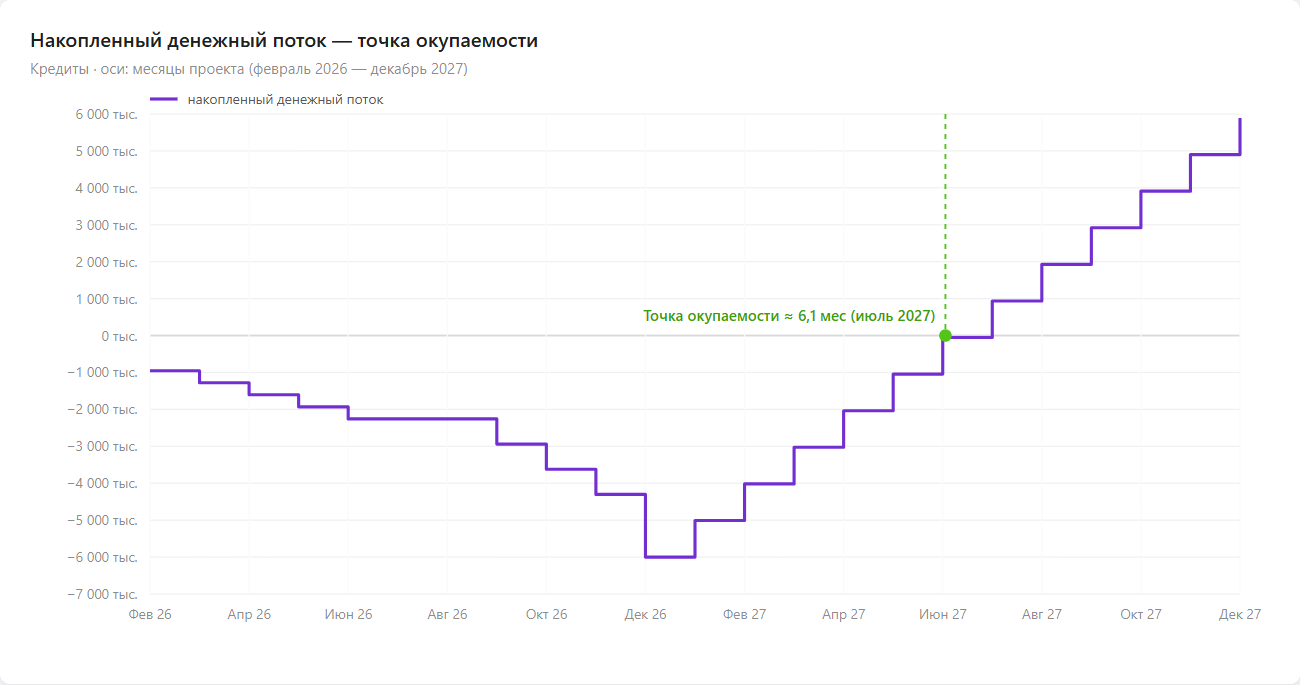
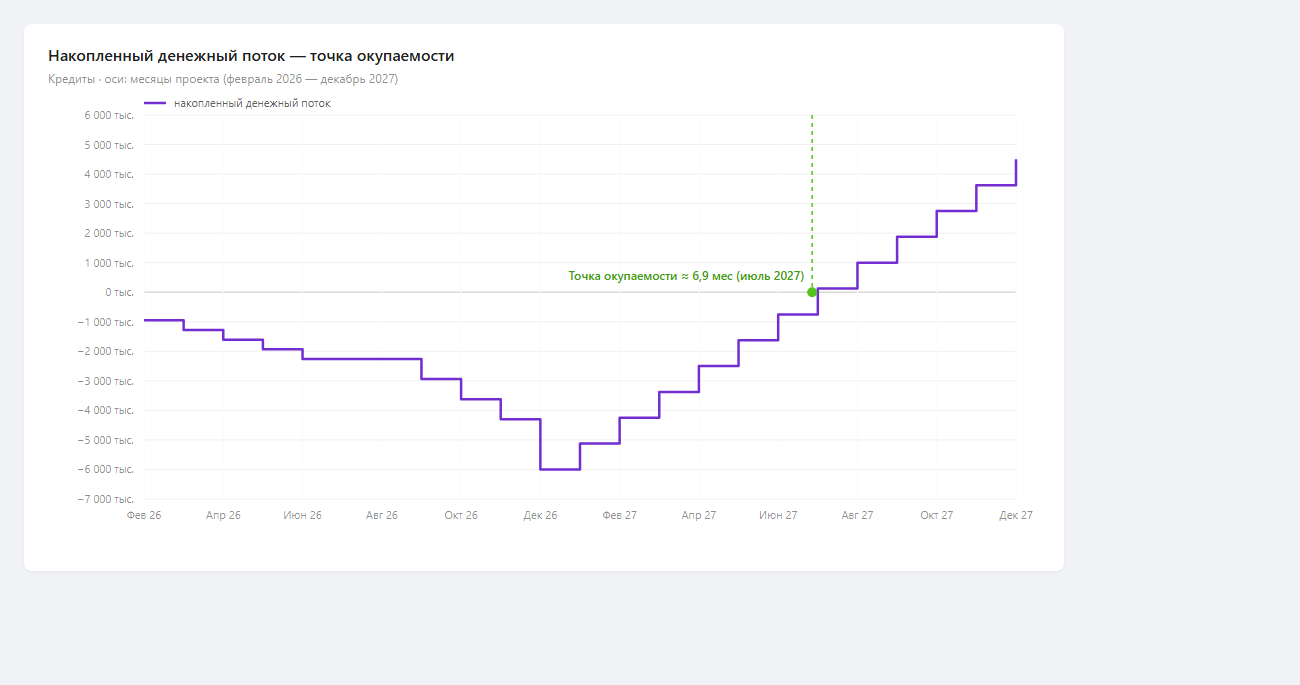
Синхронизация документов под облачную модель и пересчёт BusinessCase
- BusinessCase: приняты правки PR, пересчитана экономика (расходы с системой
  144 000/мес, экономия 874 992/мес, окупаемость 6,86 мес, ROI 425,0 %).
- Поддержка разделена на отдельные статьи: облачный сервер 5 000/мес и
  сопровождение командой 100 000/мес (0,5 FTE).
- Vision 4.4: бюджет разработки 6 000 000, инфраструктура 5 000/мес,
  поддержка 100 000/мес (итого 105 000).
- SRS/SAD/SDP: размещение на выделенном облачном VPS + VPN вместо локального
  контура клиники; helios.cs.ifmo.ru оставлен как среда разработки/тестирования.
- График окупаемости перегенерирован под новые числа (6,9 мес, июль 2027).

diff --git a/diagrams/finance-charts.html b/diagrams/finance-charts.html
@@ -31,7 +31,7 @@
   const MONTHS = ['Фев 26','Мар 26','Апр 26','Май 26','Июн 26','Июл 26','Авг 26','Сен 26','Окт 26','Ноя 26','Дек 26',
                   'Янв 27','Фев 27','Мар 27','Апр 27','Май 27','Июн 27','Июл 27','Авг 27','Сен 27','Окт 27','Ноя 27','Дек 27'];
   const CUM = [-952000,-1278500,-1605000,-1931500,-2258000,-2258000,-2258000,-2939500,-3621000,-4302500,-6000000,
-               -5009000,-4018000,-3027000,-2036000,-1045000,-54000,937000,1928000,2919000,3910000,4901000,5892000];
+               -5125008,-4250016,-3375024,-2500032,-1625040,-750048,124944,999936,1874928,2749920,3624912,4499904];
 
   const fmt = n => {
     const s = Math.abs(n).toLocaleString('ru-RU').replace(/\u00A0/g,' ');
@@ -72,13 +72,13 @@
     for (let i = 1; i < n; i++) d += ` L ${x(i)} ${y(CUM[i - 1])} L ${x(i)} ${y(CUM[i])}`;
     svg.appendChild(svgEl('path', { d, fill: 'none', stroke: '#722ed1', 'stroke-width': 2.5, 'stroke-linejoin': 'round' }));
 
-    const frac = 54000 / 991000;
+    const frac = 750048 / 874992;
     const bx = x(16) + (x(17) - x(16)) * frac;
     const by = y(0);
     svg.appendChild(svgEl('line', { x1: bx, x2: bx, y1: m.top, y2: by, stroke: '#52c41a', 'stroke-width': 1.5, 'stroke-dasharray': '4 4' }));
     svg.appendChild(svgEl('circle', { cx: bx, cy: by, r: 5, fill: '#52c41a' }));
     const lbl = svgEl('text', { x: bx - 8, y: by - 12, 'text-anchor': 'end', 'font-size': 12, 'font-weight': 600, fill: '#389e0d' });
-    lbl.textContent = 'Точка окупаемости ≈ 6,1 мес (июль 2027)';
+    lbl.textContent = 'Точка окупаемости ≈ 6,9 мес (июль 2027)';
     svg.appendChild(lbl);
 
     const lg = svgEl('g', {});

diff --git a/markdown-docs/Vision.md b/markdown-docs/Vision.md
@@ -297,7 +297,7 @@ a successful solution would be
 | 1C:Медицина | Готовая платформа, поддержка российского законодательства, обучение персонала | Не адаптирована под специфику переноса сознания, нет модулей работы со стеками, слабая безопасность | Специализированная архитектура под DHF, квантовое шифрование, протоколы needlecast |
 | WordPress + плагины | Низкая стоимость, быстрый запуск, гибкая кастомизация | Не предназначен для критических медицинских систем, уязвимости безопасности, отсутствие аудита действий | Встроенный неизменяемый audit log, ролевая модель доступа, соответствие стандартам Бей-Сити |
 | Самописные решения других клиник | Заточены под внутренние процессы | Отсутствие документации, зависимость от конкретных разработчиков, сложность масштабирования | Модульная архитектура, полная документация, поддержка внешних интеграций (архивы, регуляторы) |
-| Облачные медицинские платформы | Высокая доступность, автоматические обновления | Данные хранятся вне периметра клиники, риски утечек, зависимость от провайдера | Локальное развёртывание в защищённом контуре, полный контроль над данными, автономная работа |
+| Облачные медицинские платформы | Высокая доступность, автоматические обновления | Данные хранятся вне периметра клиники, риски утечек, зависимость от провайдера | Выделенный облачный сервер в изолированном защищённом сегменте, квантовое шифрование DHF, полный контроль над данными |
 
 ### 3.8.3 Отказ от смены тела
 
@@ -345,18 +345,17 @@ SCMS является программной системой (веб-прило
 - тестирование и ввод в эксплуатацию;
 - интеграцию с внешними API (генетические архивы, системы культивирования).
 
-Оценочный бюджет разработки: **500 000 кредитов** (единовременно).
-Соответствует разработке веб-приложения средней сложности с повышенными требованиями к безопасности командой из 3 разработчиков.
+Оценочный бюджет разработки: **6 000 000 кредитов** (единовременно, в соответствии с SDP §4.2.6 и BusinessCase §5).
+Соответствует разработке веб-приложения средней сложности с повышенными требованиями к безопасности командой из 2 участников в течение 10 месяцев.
 
-**2. Инфраструктура (ежемесячные расходы)**
+**2. Инфраструктура (облако, ежемесячные расходы)**
 
-Система распространяется как внутренний продукт для клиники — стоимость определяется затратами на инфраструктуру.
+Система разворачивается на выделенном облачном сервере (VPS) провайдера; интернет-трафик и резервное копирование входят в тариф.
 
 | Компонент | Конфигурация | Стоимость (кредитов/мес) |
 |-----------|-------------|------------------------|
-| Сервер (облачный VPS) | 16 ядер, 128 GB RAM, 500 GB SSD | 5 000 |
-| Канал связи | 100 Мбит/с, резервный канал | 1 500 |
-| **Итого** | | **6 500** |
+| Сервер (облачный VPS) | 16 ядер, 128 GB RAM, 500 GB SSD; канал связи и backup включены | 5 000 |
+| **Итого** | | **5 000** |
 
 **3. Эксплуатация и поддержка (ежемесячные расходы)**
 
@@ -364,13 +363,13 @@ SCMS является программной системой (веб-прило
 - мониторинг доступности системы (24/7);
 - обновление программного обеспечения;
 - резервное копирование и восстановление;
-- базовую техническую поддержку персонала.
+- сопровождение и развитие системы выделенной командой.
 
-Оценочная стоимость: **3 000 кредитов/мес** (в пересчёте на трудозатраты).
+Оценочная стоимость сопровождения и развития: **100 000 кредитов/мес** (0,5 FTE инженера сопровождения; детализация — в BusinessCase §5).
 
-**Итого ежемесячные расходы: 9 500 кредитов.**
+**Итого ежемесячные расходы: 105 000 кредитов.**
 
-Стоимость включается в стоимость лицензии и не выставляется отдельно заказчику.
+Аренда облачного сервера и сопровождение оплачиваются ежемесячно (детализация — в BusinessCase §5).
 
 ## 4.5 Licensing and Installation (Лицензирование и установка)
 
@@ -384,7 +383,7 @@ SCMS является программной системой (веб-прило
 
 Активный пользователь — учётная запись, совершившая хотя бы одно действие в системе в течение расчётного месяца.
 
-Система разворачивается командой разработки на сервере клиники в защищённом контуре. Конечным пользователям достаточно браузера — локальная установка не требуется.
+Система разворачивается командой разработки на выделенном облачном сервере (VPS) в изолированном защищённом сегменте; доступ клиники — по защищённому VPN-каналу. Конечным пользователям достаточно браузера — локальная установка не требуется.
 
 **Технологический стек и лицензии Open Source:**
 
@@ -455,7 +454,7 @@ SCMS является программной системой (веб-прило
 | Клиентская часть (Meth) | Современный браузер (Chrome, Firefox, Safari — последние 2 версии) с поддержкой TLS 1.3 |
 | Протоколы обмена данными | REST API, WebSocket (мониторинг в реальном времени) |
 | Безопасность | JWT для аутентификации API, HTTPS (TLS 1.3) для всего трафика, RBAC (разграничение доступа по ролям) |
-| Архитектура | Клиент-серверное веб-приложение, сервер развёртывается на учебном сервере helios.cs.ifmo.ru (FreeBSD) |
+| Архитектура | Клиент-серверное веб-приложение; production — выделенный облачный VPS (Docker Compose), разработка и тестирование — учебный сервер helios.cs.ifmo.ru |
 
 ---
 
@@ -508,7 +507,7 @@ SCMS является программной системой (веб-прило
 | Язык программирования (Backend) | Java | Типобезопасность, многопоточность, отсутствие runtime-ошибок — критично для модулей работы со стеками |
 | Операционная система (Сервер) | HeliOS | Стабильность, промышленный стандарт, простота установки ПО. |
 | Фронтенд-фреймворк | React 18 + TypeScript | Компонентный подход, типизация, экосистема для SPA |
-| Архитектура клиентской части | SPA (Single Page Application) | Плавная навигация, минимизация перезагрузок, работа в условиях нестабильного интранета клиники |
+| Архитектура клиентской части | SPA (Single Page Application) | Плавная навигация, минимизация перезагрузок, работа в условиях нестабильного интернет-соединения |
 | Протоколы обмена данными | REST, WebSocket (мониторинг в реальном времени) | Гибкость интеграции, низкая задержка для критических операций |
 | База данных | PostgreSQL 17 | Реляционная целостность для учётных данных |
 | Контейнеризация | Docker + Docker-compose | Воспроизводимость развёртывания |
@@ -562,6 +561,6 @@ SCMS является программной системой (веб-прило
 |------------|----------|
 | Персонал клиники | На устройствах персонала не требуется установка дополнительного ПО (кроме браузера). Интерфейс оптимизирован для работы в стерильных перчатках (крупные элементы управления). |
 | Meth (клиенты) | На устройствах клиентов не требуется установка дополнительного ПО — доступ через браузер. Для входа в личный кабинет требуется поддержка OAuth. |
-| Безопасность | Экзаменационный режим (needlecast) работает в изолированном контуре клиники. Данные DHF не покидают защищённый периметр. |
+| Безопасность | Режим needlecast работает в изолированном защищённом сегменте облака; весь трафик шифруется (квантовое шифрование DHF), данные не покидают защищённый периметр. |
 | Интеграции | API должно быть спроектировано для возможной интеграции с системами электронного документооборота Протектората и внешними генетическими архивами. |
 | Локализация | Интерфейс должен быть доступен на русском и английском языках (в соответствии с законодательством Бей-Сити). |

diff --git a/markdown-docs/SRS.md b/markdown-docs/SRS.md
@@ -120,7 +120,7 @@
 
 ## 2.4 Constraints (Ограничения)
 
-- Архитектурные: Клиент-серверная модель, сервер размещается в физически защищённом контуре клиники.
+- Архитектурные: Клиент-серверная модель; сервер размещается на выделенном облачном VPS в изолированном защищённом сегменте.
 - Безопасность: Все данные стеков шифруются квантовым алгоритмом; доступ к аудиту — только у директора.
 - Законодательные: Система должна поддерживать «серый режим» — возможность скрытия отдельных записей от общих реестров по запросу сенаторов.
 - Технические: Интерфейс должен поддерживать работу в стерильных условиях (управление без прямого касания).
@@ -377,7 +377,7 @@
 - Личный кабинет Meth: дашборд со статусом кейса, датами процедуры, документами, контактами специалистов.
 - Адаптивный дизайн для доступа с любого устройства (десктоп, планшет, нейроинтерфейс).
 
-**Внутренний портал (Internal Portal)** — доступен только в изолированной сети клиники (интранет), предназначен для персонала:
+**Внутренний портал (Internal Portal)** — доступен только через защищённый VPN-канал клиники, предназначен для персонала:
 
 - Интерфейс Sleeve Broker: каталог тел с расширенными фильтрами, управление резервированием, интеграция с генетическими архивами.
 - Интерфейс Needlecaster: мониторинг процедуры в реальном времени, таймеры, фиксация этапов, поддержка жестового управления.
@@ -402,11 +402,11 @@
 
 ### 3.6.4 Communications Interfaces (Сетевые интерфейсы)
 
-- Изолированная локальная сеть (Intranet) для внутреннего трафика.
+- Изолированный сетевой сегмент (VPC) и защищённый VPN-канал для внутреннего трафика.
 - Доступ во внешние сети только через шлюз безопасности с глубокой инспекцией пакетов.
 - Шифрование всего трафика по протоколу TLS 1.3+.
 
 ## 3.7 Licensing Requirements (Требования к лицензированию)
 
 - Лицензия: Проприетарная, привязка к аппаратным ключам клиники — EULA (End-User License Agreement).
-- Установка: Локальный сервер в защищенном контуре клиники, доступ через интранет.
+- Установка: выделенный облачный сервер (VPS) в защищённом сегменте провайдера; внутренний портал — доступ по защищённому VPN-каналу.

diff --git a/markdown-docs/SAD.md b/markdown-docs/SAD.md
@@ -53,7 +53,7 @@
 
 **Архитектурно-значимые факторы:**
 
-1. **Изоляция сети:** Внутренний портал работает только в изолированной сети клиники (intranet). Внешний портал доступен через защищённый HTTPS.
+1. **Изоляция сети:** Внутренний портал работает только в изолированном защищённом сегменте (доступ по VPN-каналу клиники). Внешний портал доступен через защищённый HTTPS.
 2. **Отказоустойчивость:** Процедура needlecast не должна прерываться. Система должна обеспечивать 100% доступность во время активных процедур.
 3. **Масштабируемость:** Монолитная архитектура с кэшированием и оптимизацией запросов. Цель: поддержка до 50 одновременных пользователей.
 
@@ -160,11 +160,11 @@
 
 # 7. Deployment View (Развёртывание)
 
-Система развёртывается на одном сервере (учебный сервер helios.cs.ifmo.ru FreeBSD 14.4-STABLE) с использованием Docker Compose. Backend — один контейнер (монолит). PostgreSQL — отдельный контейнер. Nginx — reverse proxy, терминация TLS.
+Production-система развёртывается на одном выделенном облачном сервере (VPS) с использованием Docker Compose: Backend — контейнер-монолит, PostgreSQL — отдельный контейнер, Nginx — reverse proxy, терминация TLS. Для разработки и тестирования используется учебный сервер helios.cs.ifmo.ru (FreeBSD 14.4-STABLE).
 
 **Сетевые интерфейсы:**
 - Port 443 (HTTPS) — внешний портал для Meth (доступ из интернета).
-- Port 8443 (HTTPS) — внутренний портал (доступ только из intranet клиники).
+- Port 8443 (HTTPS) — внутренний портал (доступ только по защищённому VPN-каналу клиники).
 
 ---
 

diff --git a/markdown-docs/SDP.md b/markdown-docs/SDP.md
@@ -67,7 +67,7 @@
 ## 2.2 Assumptions and Constraints (Влияющие факторы и ограничения)
 
 - Технологический стек: Java (backend, Spring Boot), TypeScript (frontend, React), PostgreSQL.
-- Развёртывание: сервер helios.cs.ifmo.ru (FreeBSD, OpenJDK 21, Node.js 22).
+- Развёртывание: production — выделенный облачный VPS (Docker Compose); разработка и тестирование — учебный сервер helios.cs.ifmo.ru (FreeBSD, OpenJDK 21, Node.js 22).
 - Срок разработки: 2 учебных семестра (февраль — декабрь 2026, ~10 месяцев, 34 активные недели).
 - Бюджет: 6 000 000 кредитов (расчёт в разделе 4).
 - Документация ведётся на русском и английском языках (билингвальный формат).
